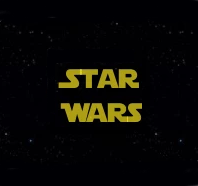
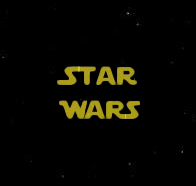
ändering i css

diff --git a/style.css b/style.css
@@ -1,6 +1,7 @@
 body {
-    background-color: black;
-    overflow-y:none;
+    background: url(./images/stars-glare-black-space.jpg);
+    text-align: center;
+    
 }
     
 
@@ -14,6 +15,9 @@ h3 {
     height: 600px;
     display: flex;
     flex-wrap: wrap;
+    
+}
 
-
+img {
+    align-items: center;
 }
